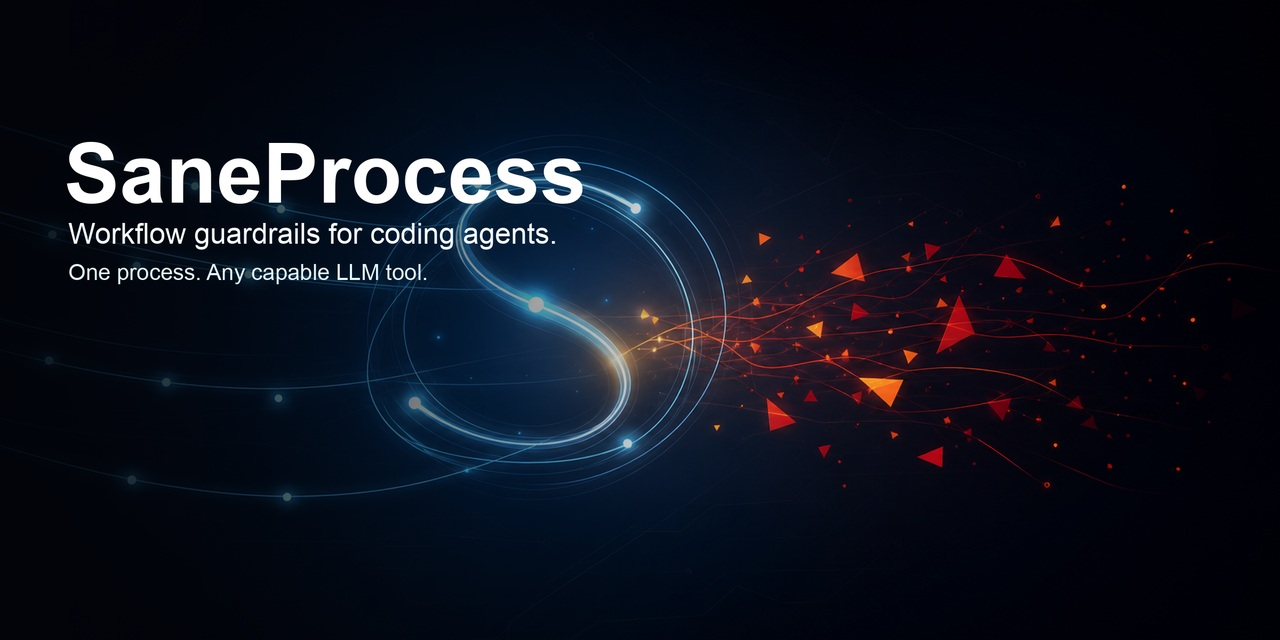
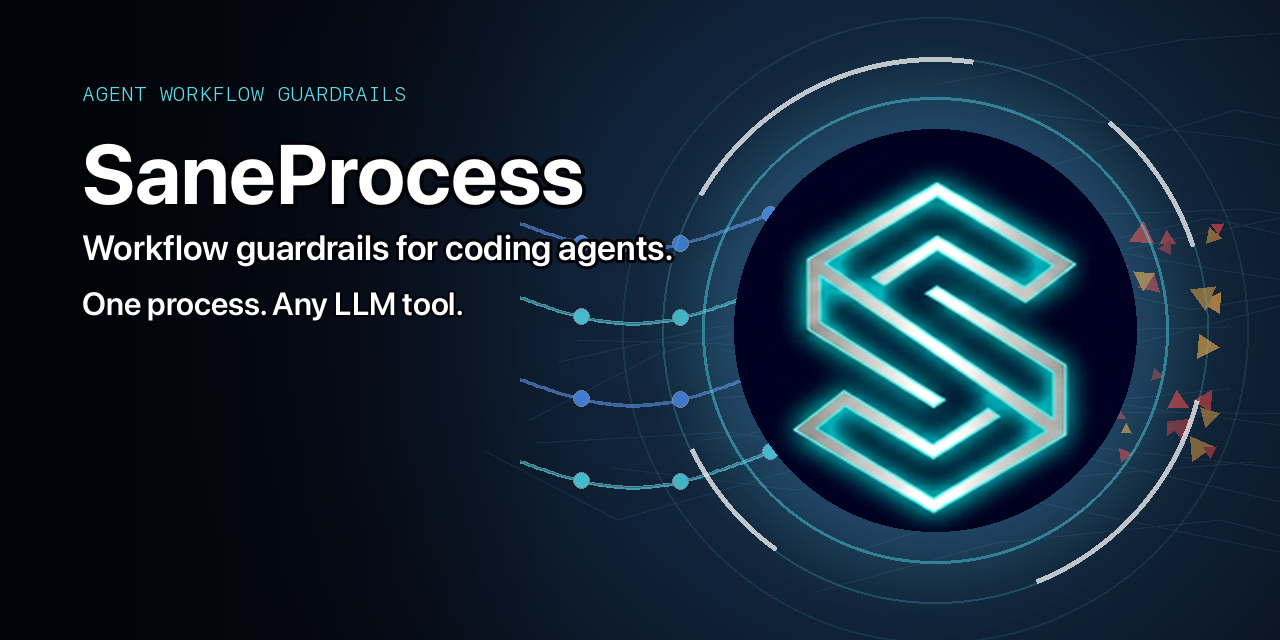
Refresh SaneProcess visuals with SaneApps mark

diff --git a/README.md b/README.md
@@ -6,7 +6,8 @@
 
 **Workflow guardrails for coding agents and LLM-assisted development.**
 
-SaneProcess keeps AI-assisted development on rails: use native hooks where a client supports them, and use `AGENTS.md`, skills, MCP, `SaneMaster.rb`, and shared shell/script guards everywhere else.
+SaneProcess gives coding agents a shared operating system for development work: clear instructions, stop conditions, research gates, verification commands, and release checks that keep them from looping, skipping tests, or mutating the wrong files.
+It uses native hooks where a client supports them, and falls back to `AGENTS.md`, skills, MCP, `SaneMaster.rb`, and shared shell/script guards everywhere else.
 The source of truth is client-neutral, so one LLM tool never owns the workflow.
 
 MIT licensed. Ruby. macOS + Linux. Used across 7 SaneApps repos.
